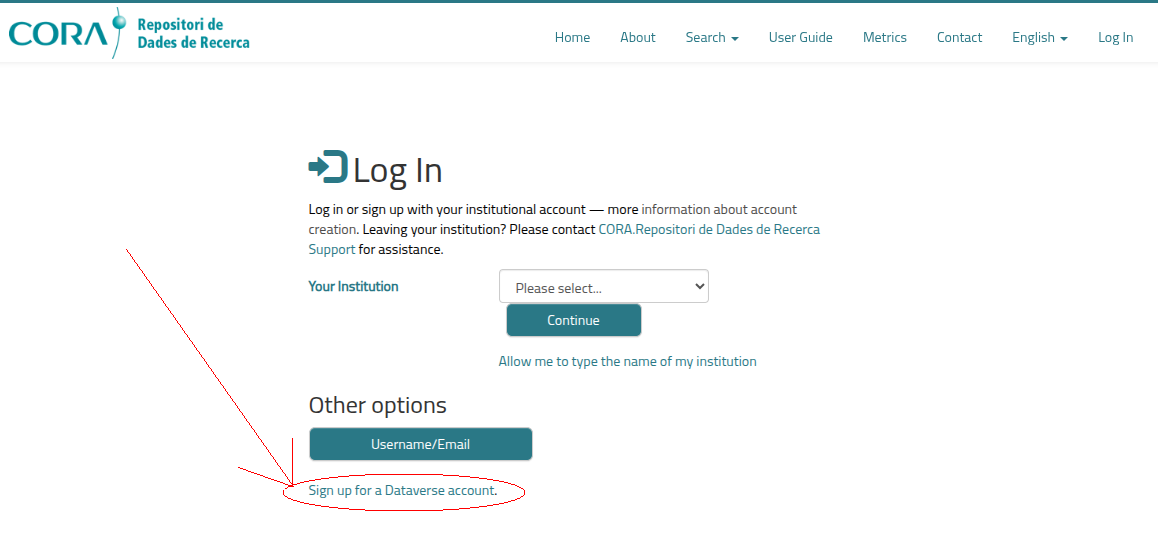
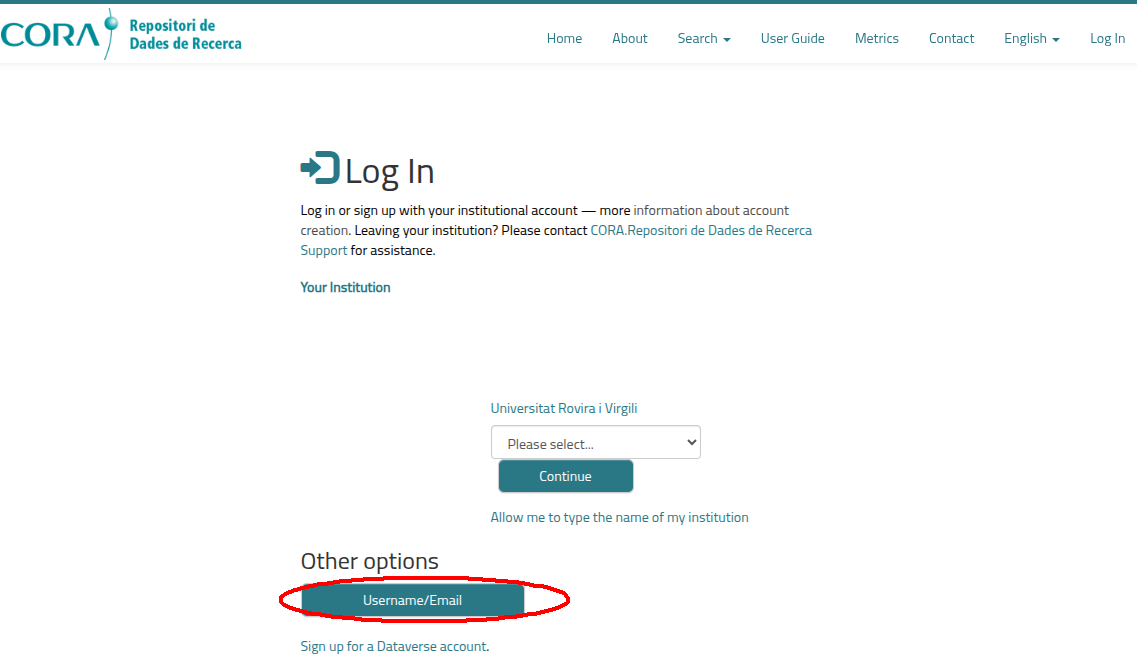
ADDED: documentation for addding dataset, fields and files missing

diff --git a/_posts/CORA.RDR/User-Guide/2025-10-18-Upload-Dataset.md b/_posts/CORA.RDR/User-Guide/2025-10-18-Upload-Dataset.md
@@ -1,0 +1,86 @@
+---
+layout: default
+title:  Upload Datasets 
+permalink: /CORA.RDR/User-Guide/upload-dataset
+nav_order: 40
+parent: User Guide
+grand_parent: CORA.RDR
+---
+
+## Upload a new dataset
+
+After you have done 
+[the guide to create a new user in CORA.RDR](https://iciq-dmp.github.io/CORA.RDR/User-Guide/Create-User), followed by 
+[the guide to get your user added into your own research group Dataverse](https://iciq-dmp.github.io/CORA.RDR/User-Guide/Add-User-ICIQ-Dataverse),
+you are ready to upload your own dataset. 
+
+First of all, you must be logged in into CORA.RDR. 
+[You can follow this article to do it](https://iciq-dmp.github.io/CORA.RDR/User-Guide/Add-User-ICIQ-Dataverse). 
+
+After being logged in, you must click in the dropdown menu that you can find in the top right corner of the page with 
+your username (1), in my case "Admin ICIQ". After that, you must click on "My data" (2) to access the available data in 
+your Dataverse. 
+
+![img.png](../../../assets/images/CORA.RDR/dataverse-access-my-data.png)
+
+You will be presented with a page similar to this:
+
+![img.png](../../../assets/images/CORA.RDR/dataverse-my-data.png)
+
+You will see all the available sub-Dataverses and datasets in the ICIQ Dataverse. We will be ignoring the datasets and 
+only focusing on the sub-Dataverses (marked in red): "Prof. Katherine Villa Research Group (ICIQ)",
+"Prof. Carles Bo Research Group (ICIQ)", "Dr. José Berrocal Research Group (ICIQ)"...
+
+We will search and click the sub-Dataverse corresponding to your research group. In my case I will choose arbitrarily 
+as example the 
+sub-Dataverse
+"Prof. Carles Bo Research Group (ICIQ)".
+
+After clicking in your corresponding sub-Dataverse, you will be presented with a page similar to the following, where 
+you need to click "Add Data" (1) to show a dropdown menu with the item "New Dataset" (2).
+
+![img.png](../../../assets/images/CORA.RDR/dataverse-add-dataset.png)
+
+After that, you will be presented with our final page: The Dataset addition form, which looks similar to this: 
+
+![img.png](../../../assets/images/CORA.RDR/dataverse-create-dataset.png)
+
+To add a dataset you need to introduce two types of information:
+* **The metadata fields**: The data that describes your dataset, its author, affiliation, related web page... You need 
+  to fill in *as many as possible* metadata fields with the information of the dataset. The explanation for each
+  field can be found in the article [Dataset Fields](https://iciq-dmp.github.io/CORA.RDR/User-Guide/dataset-fields).
+* **The files**: The files that you want to add to this dataset. There are no limitations regarding format, but there 
+  are some recommendations that you should follow. There is also a soft limit of 500 GB in a single dataset, but it can
+  be bypassed by requesting it to the admins of CORA.RDR. The article 
+  [Dataset Files](https://iciq-dmp.github.io/CORA.RDR/User-Guide/dataset-fields) 
+
+After you have introduced all the possible fields and your files in the dataset, you need to go to the bottom of the 
+page, where you will see a part of the page similar to the following, where you need to check the checkbox "I have read 
+and accepted the Therms and conditions for the deposit, preservation, and dissemination of data in RDR" (1) and then 
+click in the button "Save Dataset" (2): 
+
+![img.png](../../../assets/images/CORA.RDR/dataverse-save-dataset.png)
+
+After clicking the "Save Dataset" button you will be presented with a page similar to the following, where you need to 
+click into the button "Submit for Review" to end the process so that the ICIQ CORA.RDR admin validates your dataset and
+approves its publication. 
+
+![img.png](../../../assets/images/CORA.RDR/dataverse-submit-dataset.png)
+
+Finally, a last pop-up windows will appear to make you confirm the license of the dataset by clicking the "Submit" 
+button. 
+
+![img.png](../../../assets/images/CORA.RDR/dataverse-submit-end.png)
+
+To confirm that everything went correctly, you can notice the tag "In Review" (1) that should have appeared under the 
+dataset title and also the warning message "Submitted for Review – The draft version of this dataset is currently under 
+review prior to publication" (2).
+
+![img.png](../../../assets/images/CORA.RDR/dataverse-confirm.png)
+
+Thank you for your contribution to Open Science! 
+
+
+
+
+

diff --git a/_posts/CORA.RDR/User-Guide/2025-10-17-Log-in.md b/_posts/CORA.RDR/User-Guide/2025-10-17-Log-in.md
@@ -1,0 +1,36 @@
+---
+layout: default
+title:  Log in into CORA.RDR
+permalink: /CORA.RDR/User-Guide/Log-in
+nav_order: 30
+parent: User Guide
+grand_parent: CORA.RDR
+---
+
+## Login
+After you have done [the article to create your account](https://iciq-dmp.github.io/CORA.RDR/User-Guide/Create-user), 
+you can now login into CORA.RDR.
+
+To do so, you must access with a browser the URL [https://dataverse.csuc.cat/loginpage.xhtml](https://dataverse.csuc.cat/loginpage.xhtml).
+
+In this URL, you will be presented with a page similar to the following. You need to click the button Username/Email, 
+circled in red:
+
+![img.png](../../../assets/images/CORA.RDR/dataverse-login.png)
+
+After you click in the button, you will be presented with this form, where you need to introduce the Email in (1) and 
+the Password 
+that you used [in your sign-up of CORA.RDR](https://iciq-dmp.github.io/CORA.RDR/User-Guide/Create-user) (2) and then 
+click 
+in the "Log in" button (3). 
+
+![dataverse-login-form.png](../../../assets/images/CORA.RDR/dataverse-login-form.png)
+
+If everything is correct, you will be logged in and be presented with the main page of CORA.RDR:
+
+![img.png](../../../assets/images/CORA.RDR/dataverse-login-success.png)
+
+
+
+
+

diff --git a/_posts/CORA.RDR/User-Guide/2025-10-16-Add-User-ICIQ-Dataverse.md b/_posts/CORA.RDR/User-Guide/2025-10-16-Add-User-ICIQ-Dataverse.md
@@ -2,7 +2,7 @@
 layout: default
 title:  Add User ICIQ Dataverse
 permalink: /CORA.RDR/User-Guide/Add-User-ICIQ-Dataverse
-nav_order: 2
+nav_order: 20
 parent: User Guide
 grand_parent: CORA.RDR
 ---
@@ -24,9 +24,11 @@ group. Mark it if you are the group leader or the responsible to administer the 
 After the process is complete, you will receive an email confirming your membership to the subinstance of your research 
 group.  
 
-*You can now start uploading your datasets.*
-
 If you have any more problem, you can contact [digitalization@iciq.es](mailto:digitalization@iciq.es).
+
+After receiving the email, you can now start uploading your datasets by following 
+[the next article "Upload Datasets"](https://iciq-dmp.github.io/CORA.RDR/User-Guide/Create-User).
+
 
 
 

diff --git a/_posts/CORA.RDR/User-Guide/2025-10-15-Create-User.md b/_posts/CORA.RDR/User-Guide/2025-10-15-Create-User.md
@@ -2,7 +2,7 @@
 layout: default
 title:  Create User
 permalink: /CORA.RDR/User-Guide/Create-User
-nav_order: 1
+nav_order: 10
 parent: User Guide
 grand_parent: CORA.RDR
 ---
@@ -19,7 +19,7 @@ You need to click on the "Log in" button on the right upper corner of the previo
 
 After clicking that button you will be presented with this screen:
 
-![img.png](../../../assets/images/CORA.RDR/dataverse-login.png)
+![img.png](../../../assets/images/CORA.RDR/dataverse-signup.png)
 
 You need to click on the "Sign up for a Dataverse account." text in the center of the screen circled in red. 
 

diff --git a/_posts/CORA.RDR/User-Guide/2025-10-19-Dataset-Fields.md b/_posts/CORA.RDR/User-Guide/2025-10-19-Dataset-Fields.md
@@ -1,0 +1,16 @@
+---
+layout: default
+title:  Dataset Fields
+permalink: /CORA.RDR/User-Guide/dataset-fields
+nav_order: 60
+parent: User Guide
+grand_parent: CORA.RDR
+---
+
+## Explanation for each dataset field
+
+
+
+
+
+

diff --git a/_posts/CORA.RDR/User-Guide/2025-10-20-Dataset-Files.md b/_posts/CORA.RDR/User-Guide/2025-10-20-Dataset-Files.md
@@ -1,0 +1,16 @@
+---
+layout: default
+title:  Dataset Files
+permalink: /CORA.RDR/User-Guide/dataset-files
+nav_order: 70
+parent: User Guide
+grand_parent: CORA.RDR
+---
+
+## Explanation for each dataset files
+
+
+
+
+
+
